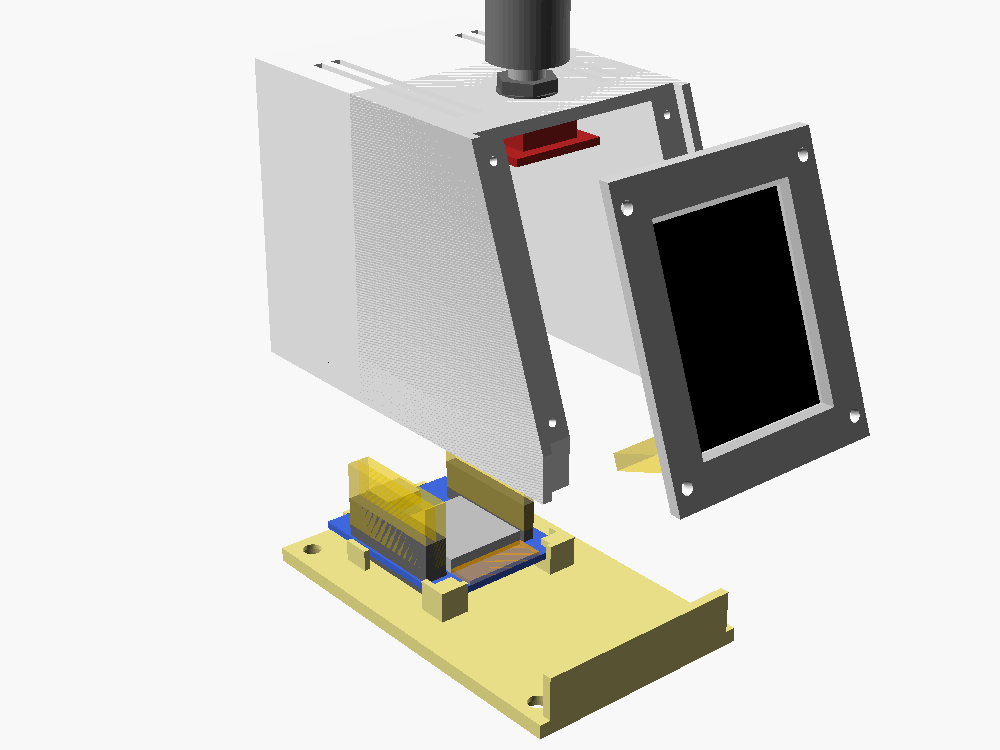
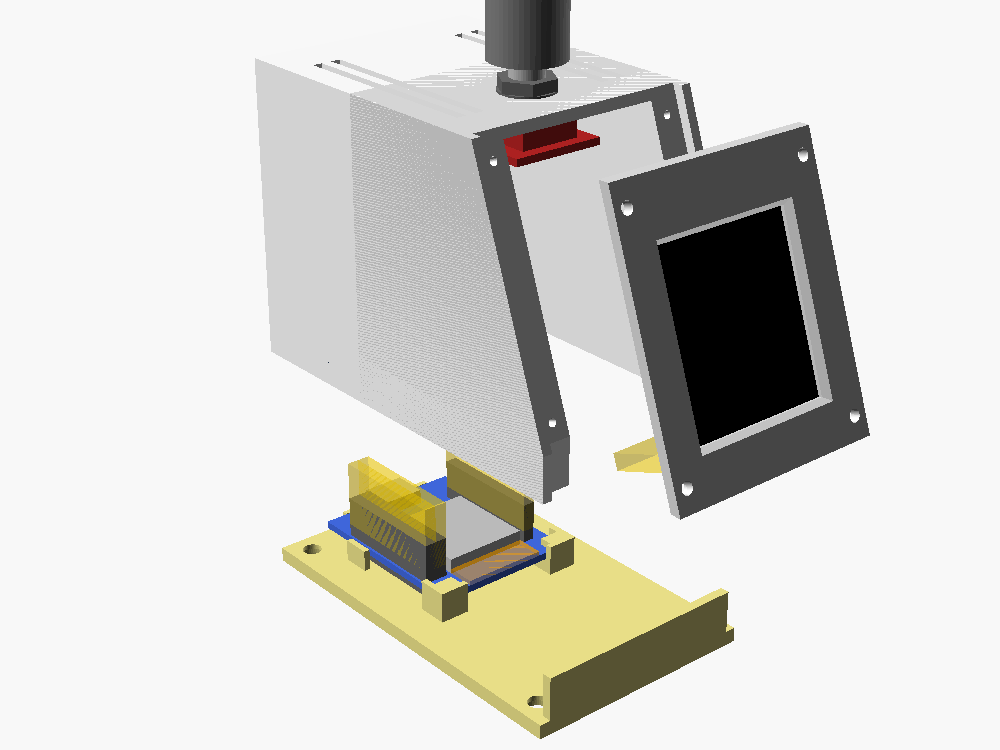
Window: top edge 3.4 lower, bottom 1.05 higher; EDGE_TEST screen
On v1 every edge pixel showed but black glass showed round them: 3.6 at
the top (flat cable side), 1.25 at the bottom, measured with the new
EDGE_TEST screen (coloured 2 px frames from the edges). v2's window stops
0.2 outside the pixels at top and bottom.

Changed region(s): [[0.651, 0.2147, 0.806, 0.3373], [0.682, 0.5213, 0.837, 0.6133]]

diff --git a/main/main.c b/main/main.c
@@ -12,6 +12,7 @@ static const char *TAG = "main";
 #define WIFI_TIMEOUT_MS 10000 // then carry on, it keeps trying in the background
 #define FRAME_MS        50    // redraw at up to 20 fps: smooth scrolling and progress
 #define VOLUME_STEP     5     // percentage points per knob detent
+#define EDGE_TEST       0     // 1: a fixed test screen to check which pixels the case's window shows
 
 static player_t s_player;
 static bool s_display_ok;
@@ -29,10 +30,40 @@ struct frame {
     int64_t now_ms;
 };
 
+#if EDGE_TEST
+// Frames 2 px wide from each edge inwards, one colour each, grey inside:
+// the outermost colour seen on a side tells how many pixels the window
+// hides there, the grey shows where the lit area ends against the glass.
+static void draw_edge_test(canvas_t *c)
+{
+    static const uint16_t ring[] = {RGB(255, 0, 0),   RGB(0, 255, 0),   RGB(0, 80, 255),   RGB(255, 255, 0),
+                                    RGB(255, 0, 255), RGB(0, 255, 255), RGB(255, 255, 255)};
+    const int n = sizeof(ring) / sizeof(ring[0]);
+    canvas_fill(c, 0, 0, CANVAS_W, CANVAS_H, RGB(110, 110, 110));
+    for (int i = 0; i < n; i++) {
+        int d = 2 * i;
+        canvas_fill(c, d, d, CANVAS_W - 2 * d, 2, ring[i]);
+        canvas_fill(c, d, CANVAS_H - d - 2, CANVAS_W - 2 * d, 2, ring[i]);
+        canvas_fill(c, d, d, 2, CANVAS_H - 2 * d, ring[i]);
+        canvas_fill(c, CANVAS_W - d - 2, d, 2, CANVAS_H - 2 * d, ring[i]);
+    }
+    canvas_text_center(c, &FONT_TITLE, 90, "Edge test", RGB(255, 255, 255));
+    canvas_text_center(c, &FONT_TEXT, 130, "outside in, 2 px each:", RGB(230, 230, 230));
+    canvas_text_center(c, &FONT_TEXT, 154, "red green blue", RGB(230, 230, 230));
+    canvas_text_center(c, &FONT_TEXT, 178, "yellow magenta cyan", RGB(230, 230, 230));
+    canvas_text_center(c, &FONT_TEXT, 202, "white", RGB(230, 230, 230));
+}
+#endif
+
 static void draw_strip(canvas_t *c, void *ctx)
 {
     const struct frame *f = ctx;
+#if EDGE_TEST
+    (void)f;
+    draw_edge_test(c);
+#else
     ui_render(c, &f->in, f->now_ms);
+#endif
 }
 
 static void render(void)

diff --git a/enclosure/README.md b/enclosure/README.md
@@ -129,9 +129,10 @@ black pan head. What's in them: their Homebox entries (`parts.py show screws`).
 
 ## Front plate checklist (`front`)
 
-1. TFT: the glass sits flat on the plate, no pixels cut off at the window's
-   edges (the window is the glass minus a 0.5 mm lip; the pixel area's
-   position wasn't measured), the screws pull the board flat.
+1. TFT: the glass sits flat on the plate, the screws pull the board flat.
+   Flash with `EDGE_TEST 1` in `main/main.c`: the red outer frame shows on
+   every side, with only a thin black strip (~0.2 top and bottom, ~0.5
+   left and right) between it and the window's edge.
 2. On the body: the plate drops in between the side walls (0.3 each side),
    lies flush with their edges, and its 4 holes meet the rails' pilots.
 
@@ -157,7 +158,10 @@ What changed after the first print (v1, its findings and files:
 `archive/v1/`): the base covers the whole footprint (v1's screw holes
 ended up 0.2 from its edge), base holes 4.0 and boss pilots 13 deep;
 front plate screws 2 x 6 (v1's 2.3 x 8 snapped); the knob is held by its
-own nut instead of snap hooks (one didn't catch). The KY-040 in this
+own nut instead of snap hooks (one didn't catch); the window's top edge
+3.4 lower and its bottom 1.05 higher, so the black glass round the
+pixels (measured on v1 with the edge test screen: 3.6 top, 1.25 bottom)
+mostly doesn't show. The KY-040 in this
 build had its header resoldered (2026-10-10): straight pins under the
 board, pointing down; the stubs on top stay below the encoder body. Its
 collar/nut sizes are in Homebox; the measuring page is
